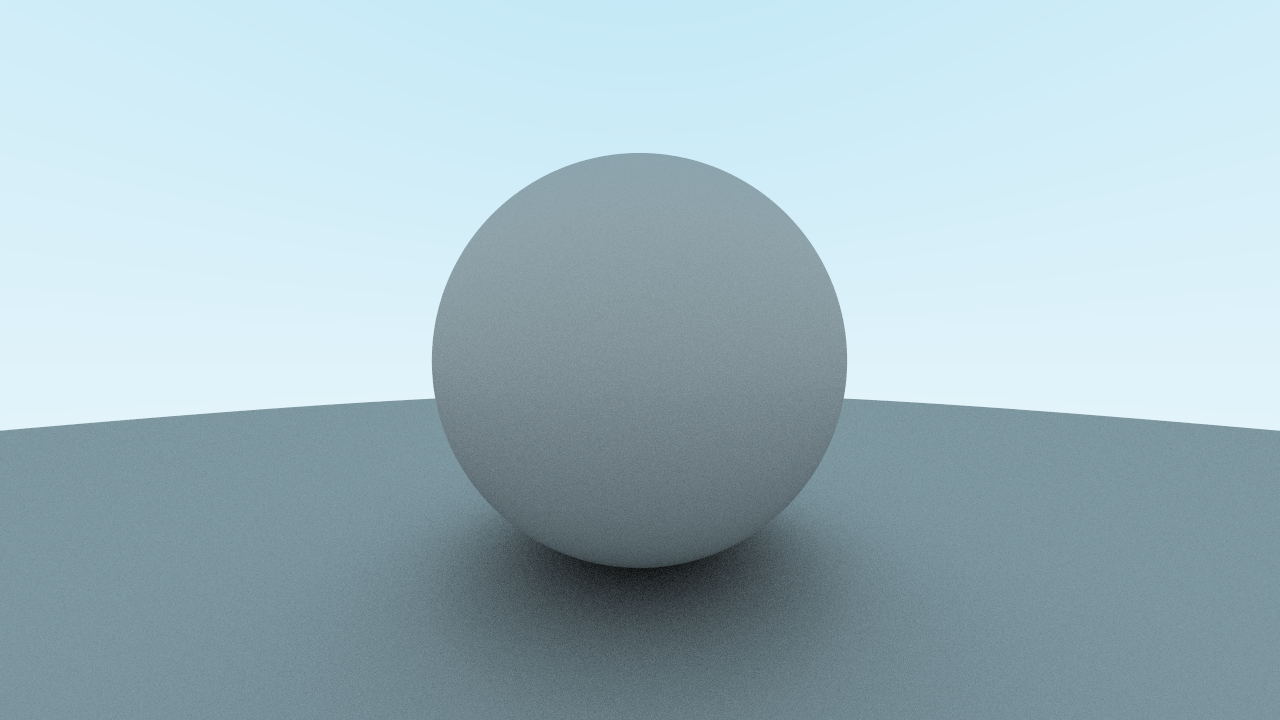
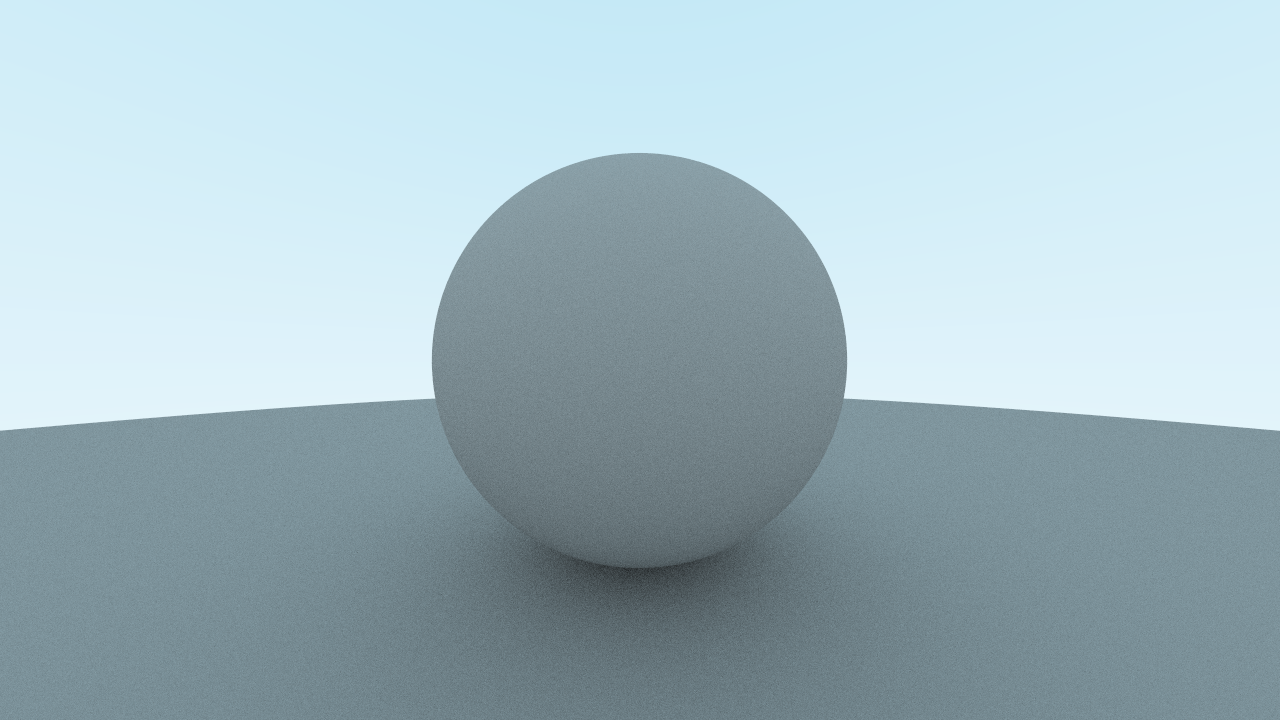
Finished section 8.5: "True Lambertian Reflection"

Changed region(s): [[0.375, 0.7333, 0.625, 0.9167]]

diff --git a/src/geometry.rs b/src/geometry.rs
@@ -1,6 +1,7 @@
 use std::ops::{Add, AddAssign, Div, DivAssign, Mul, MulAssign, Neg, Sub, SubAssign};
 
 use rand::{prelude::ThreadRng, Rng};
+use rand_distr::{Distribution, UnitSphere};
 
 use crate::image::{self, Color};
 
@@ -138,7 +139,7 @@ impl Ray {
 
         // If the ray hits an obstacle, let the obstacle absorb some light (reduce color), and let the ray bounce back in a random direction
         if let Some(hit) = obstacles.hit(self, f64::EPSILON, f64::INFINITY) {
-            let target_direction = hit.normal + Vec3D::random_in_unit_sphere(rng);
+            let target_direction = hit.normal + Vec3D::random_on_unit_sphere(rng);
             let ray = Ray::new(hit.p, target_direction);
             return 0.5 * ray.color(obstacles, rng, depth - 1);
         }
@@ -206,16 +207,10 @@ impl Vec3D {
         min + (max - min) * Self::random(rng)
     }
 
-    pub fn random_in_unit_sphere(rng: &mut ThreadRng) -> Vec3D {
-        let mut vector = Self::random_in_range(rng, -1.0, 1.0); // Random vector in unit cube
-        let magnitude_squared = vector.magnitude_squared();
-        if magnitude_squared >= 1.0 {
-            // Vector needs scaling to fit inside unit sphere
-            let max_scale = 1.0 / magnitude_squared.sqrt();
-            let scale = rng.gen_range(0.0..max_scale) * 2.0 - max_scale; // Obtain scaling factor in range ]-max_scale, max_scale[. Directly using max_scale would lead to a weird distribution with a too many vectors directly at the sphere border
-            vector *= scale;
-        }
-        vector
+    pub fn random_on_unit_sphere(rng: &mut ThreadRng) -> Vec3D {
+        // https://stackoverflow.com/questions/14476973/calculating-diffuse-lambertian-reflection
+        let v: [f64; 3] = UnitSphere.sample(rng);
+        Self::new(v[0], v[1], v[2])
     }
 }
 
